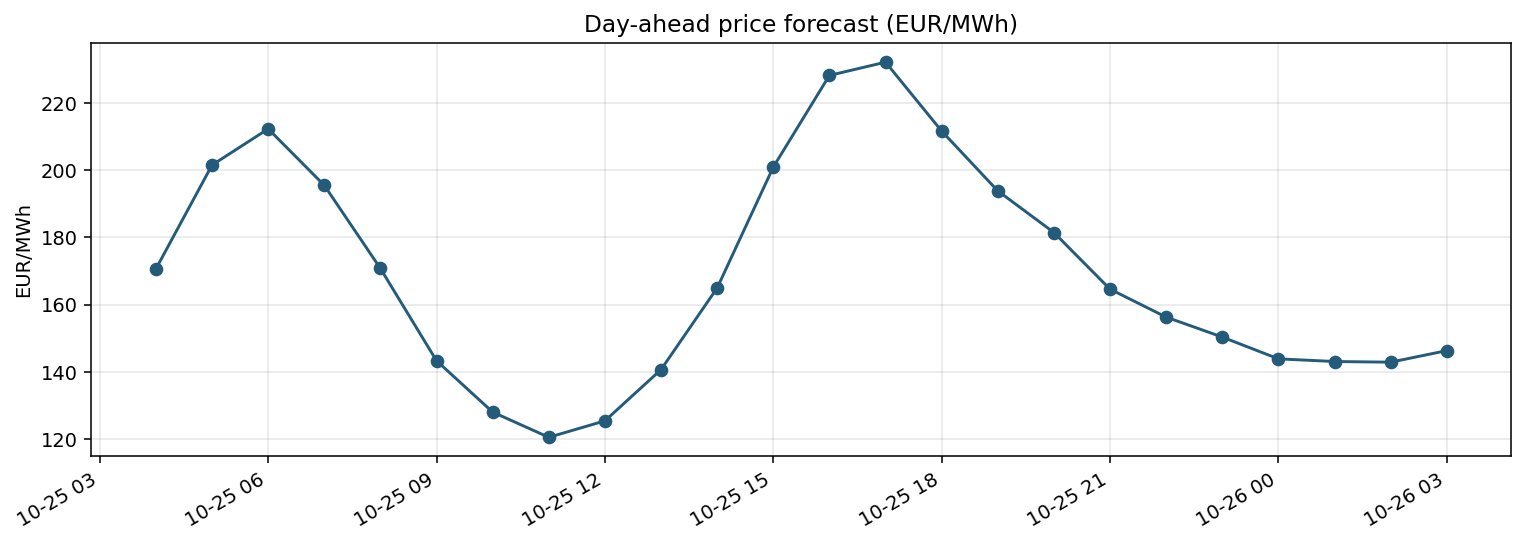
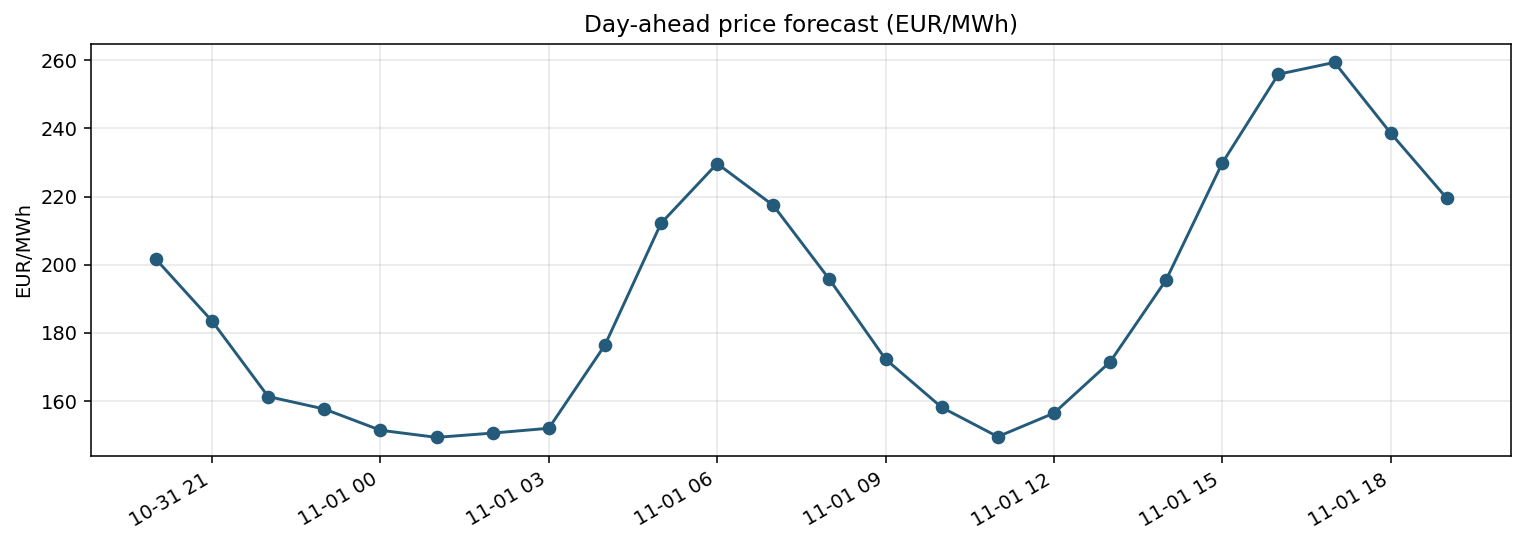
chore: daily forecast update

diff --git a/README.md b/README.md
@@ -195,9 +195,9 @@ Licence: MIT (code). Underlying market data remain subject to their original lic
 
 ## Live daily forecast
 
-**Generated (UTC):** 2026-10-31 18:52  
-**Based on data up to (UTC):** 2026-10-25 03:00  
-**Forecast horizon (UTC):** 2026-10-25 04:00 to 2026-10-26 03:00  
+**Generated (UTC):** 2026-10-31 19:35  
+**Based on data up to (UTC):** 2026-10-31 19:00  
+**Forecast horizon (UTC):** 2026-10-31 20:00 to 2026-11-01 19:00  
 **Protocol:** Conservative (external_shift = 24)
 
 ### Forecast chart
@@ -208,36 +208,34 @@ Licence: MIT (code). Underlying market data remain subject to their original lic
 
 | Hour (UTC) | Forecast (EUR/MWh) |
 |------------|--------------------|
-| 2026-10-25 04:00 | 170.65 |
-| 2026-10-25 05:00 | 201.57 |
-| 2026-10-25 06:00 | 212.34 |
-| 2026-10-25 07:00 | 195.53 |
-| 2026-10-25 08:00 | 170.77 |
-| 2026-10-25 09:00 | 143.29 |
-| 2026-10-25 10:00 | 128.01 |
-| 2026-10-25 11:00 | 120.50 |
-| 2026-10-25 12:00 | 125.40 |
-| 2026-10-25 13:00 | 140.66 |
-| 2026-10-25 14:00 | 164.97 |
-| 2026-10-25 15:00 | 200.96 |
-| 2026-10-25 16:00 | 228.26 |
-| 2026-10-25 17:00 | 232.21 |
-| 2026-10-25 18:00 | 211.69 |
-| 2026-10-25 19:00 | 193.88 |
-| 2026-10-25 20:00 | 181.48 |
-| 2026-10-25 21:00 | 164.62 |
-| 2026-10-25 22:00 | 156.29 |
-| 2026-10-25 23:00 | 150.35 |
-| 2026-10-26 00:00 | 143.86 |
-| 2026-10-26 01:00 | 143.07 |
-| 2026-10-26 02:00 | 142.87 |
-| 2026-10-26 03:00 | 146.31 |
+| 2026-10-31 20:00 | 201.60 |
+| 2026-10-31 21:00 | 183.46 |
+| 2026-10-31 22:00 | 161.30 |
+| 2026-10-31 23:00 | 157.64 |
+| 2026-11-01 00:00 | 151.41 |
+| 2026-11-01 01:00 | 149.32 |
+| 2026-11-01 02:00 | 150.58 |
+| 2026-11-01 03:00 | 151.99 |
+| 2026-11-01 04:00 | 176.39 |
+| 2026-11-01 05:00 | 212.15 |
+| 2026-11-01 06:00 | 229.67 |
+| 2026-11-01 07:00 | 217.39 |
+| 2026-11-01 08:00 | 195.70 |
+| 2026-11-01 09:00 | 172.27 |
+| 2026-11-01 10:00 | 158.13 |
+| 2026-11-01 11:00 | 149.52 |
+| 2026-11-01 12:00 | 156.42 |
+| 2026-11-01 13:00 | 171.44 |
+| 2026-11-01 14:00 | 195.54 |
+| 2026-11-01 15:00 | 229.82 |
+| 2026-11-01 16:00 | 255.88 |
+| 2026-11-01 17:00 | 259.36 |
+| 2026-11-01 18:00 | 238.62 |
+| 2026-11-01 19:00 | 219.50 |
 
 ### Previous forecasts vs realized prices
 
-| Forecast file | Hours scored | MAE | RMSE |
-|---------------|--------------|-----|------|
-| `forecast_2026-10-31.csv` | 24 | 151.38 | 153.84 |
+_No overlapping actual prices yet for previous forecasts._
 
 ![Forecast vs actual](outputs/figures/latest_vs_actual.png)
 
